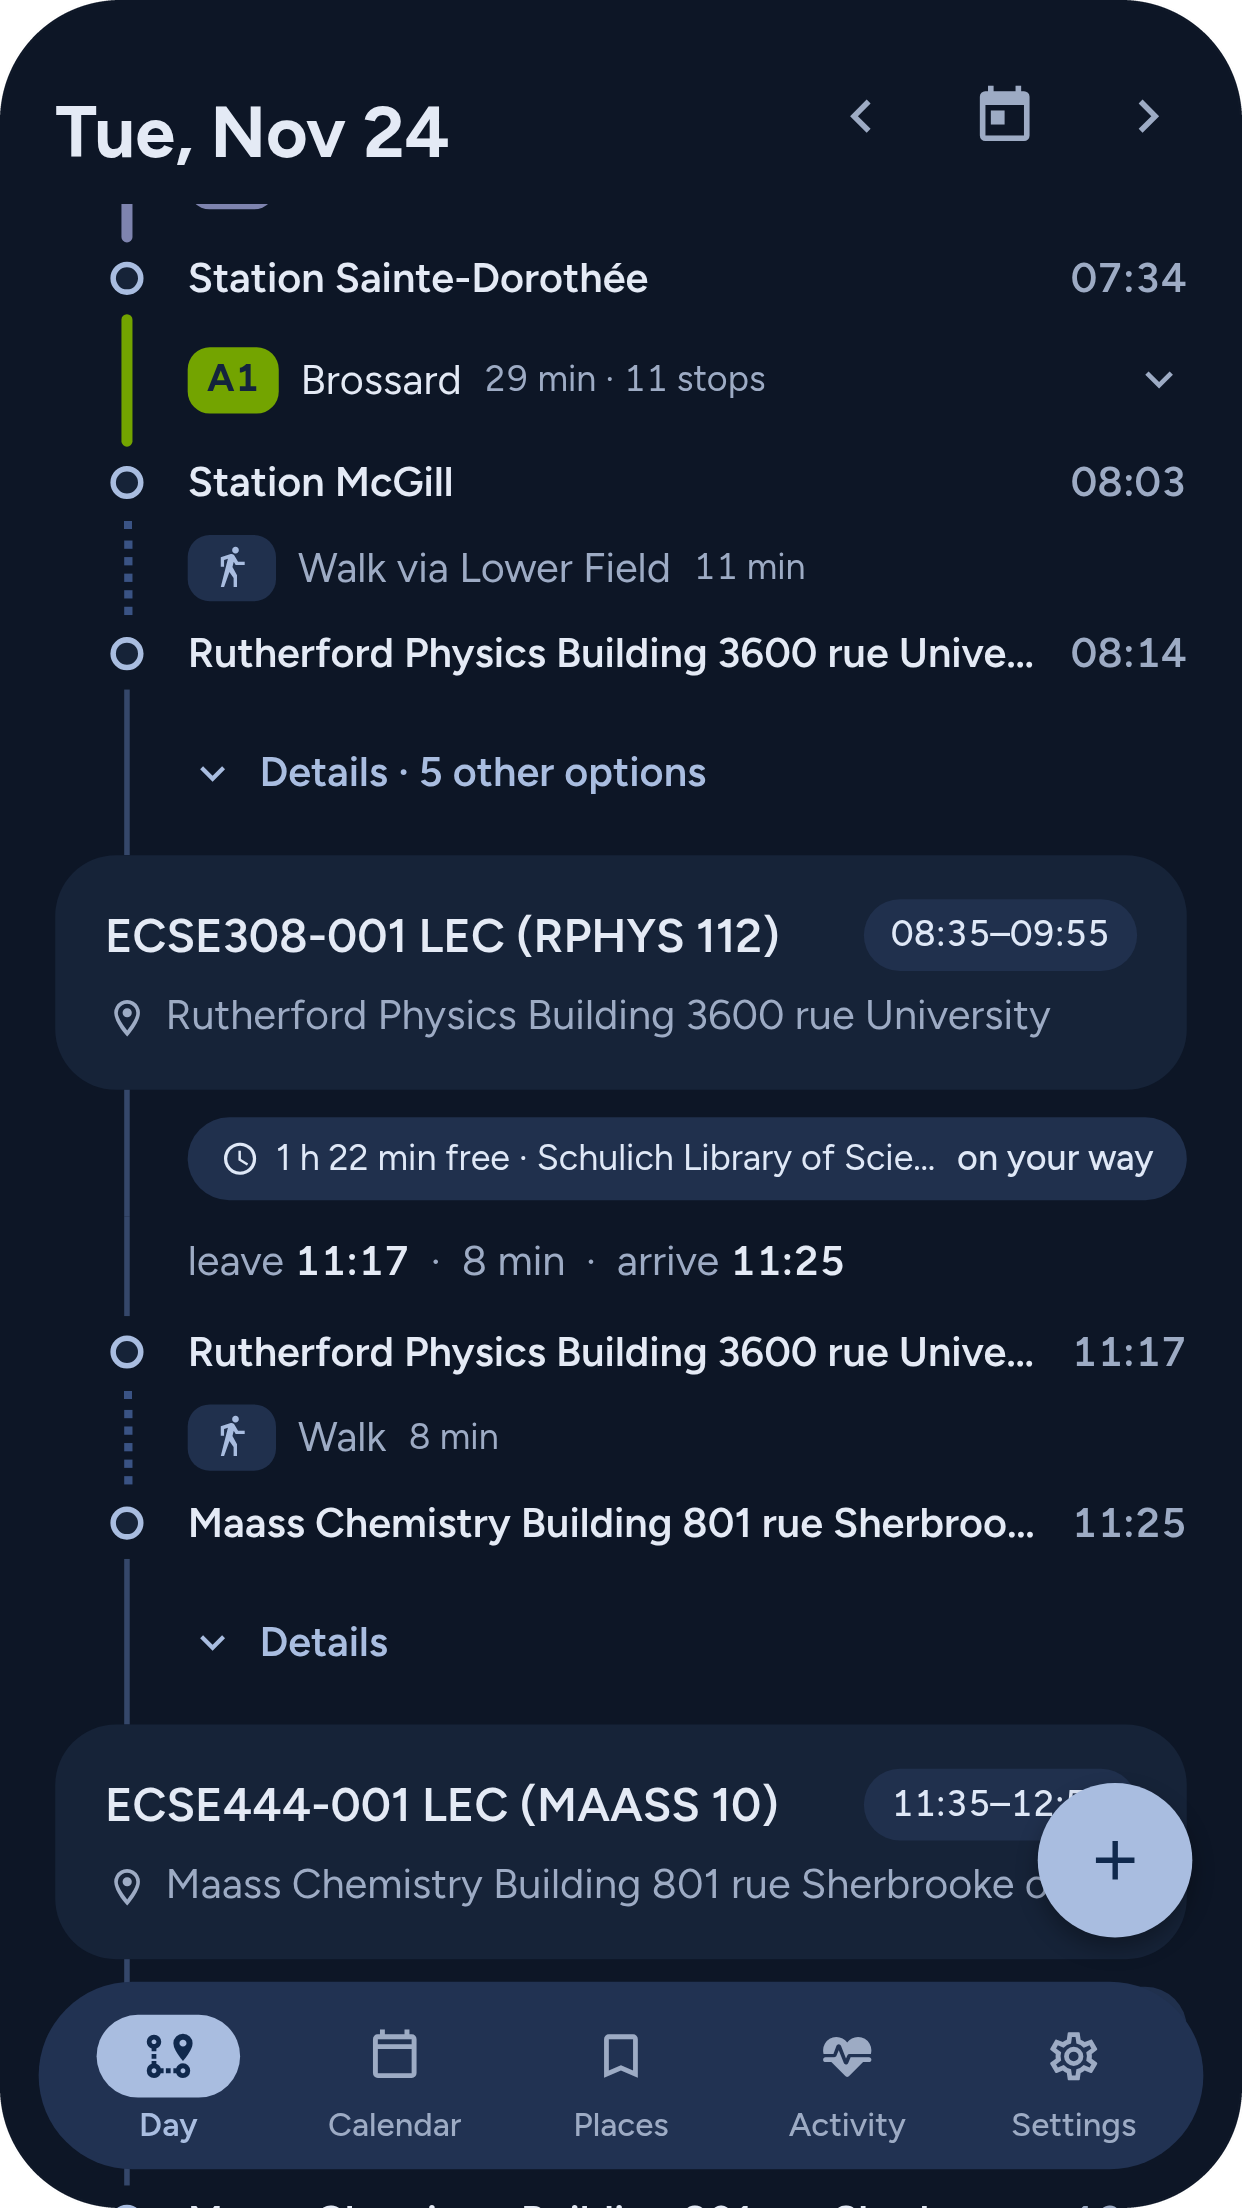
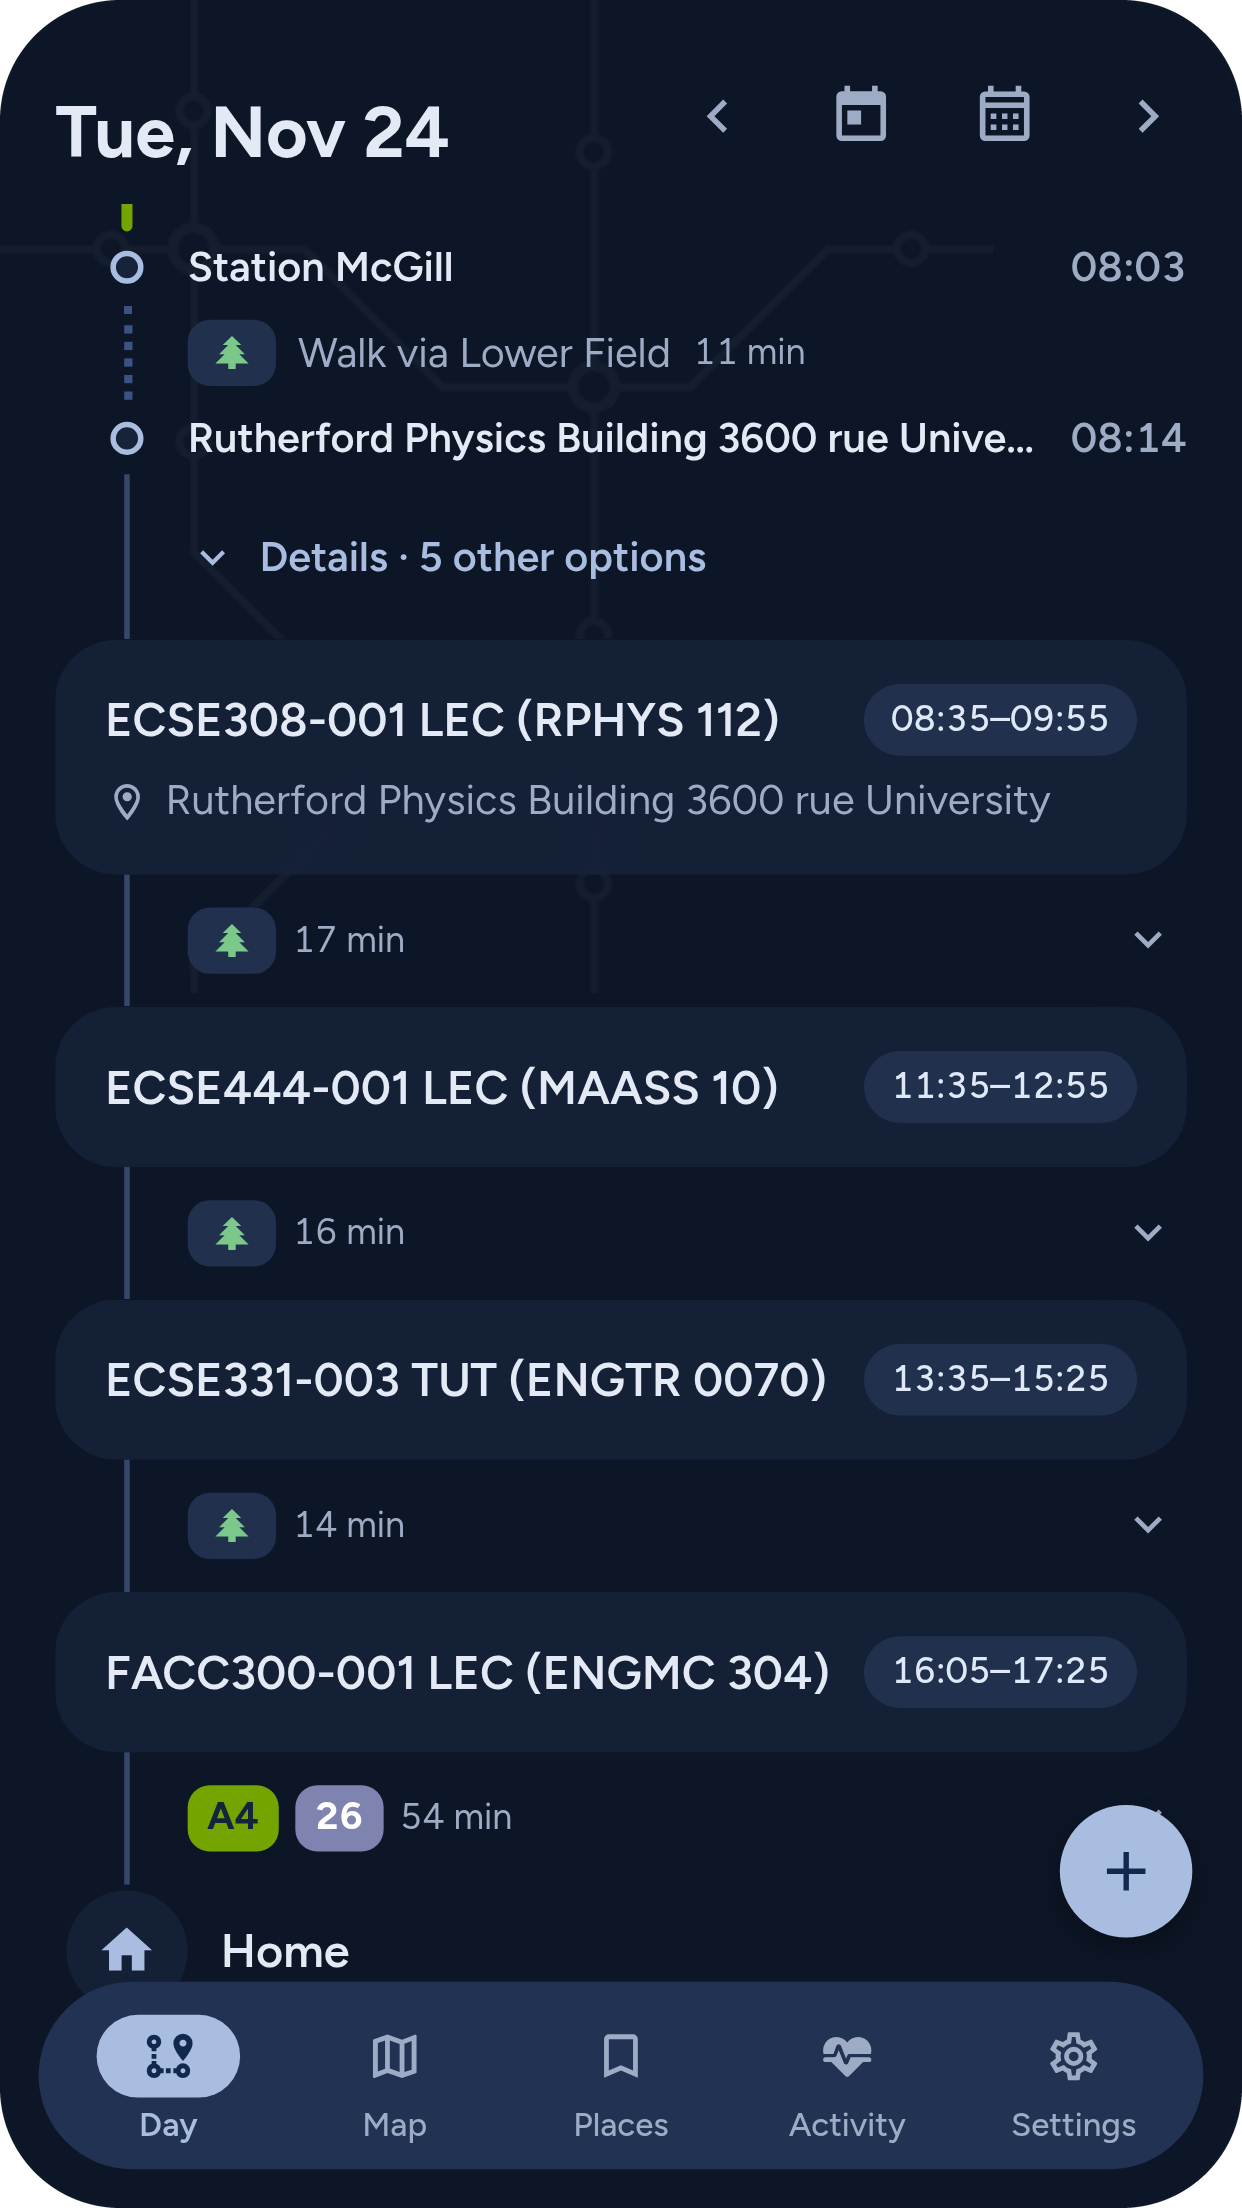
Updated branding

diff --git a/frontend/src/screens/PreferencesScreen.tsx b/frontend/src/screens/PreferencesScreen.tsx
@@ -191,7 +191,7 @@ export const PreferencesScreen: React.FC = () => {
           <Row title="Step-free routes only" hint="Strongly favours stations with elevators and accessible vehicles.">
             <Switch value={preferences.require_elevator} onValueChange={(v) => save({ require_elevator: v })} />
           </Row>
-          <Row title="Prefer green routes" hint="Favours walks through parks on every trip. The switch on the Day tab changes one trip at a time.">
+          <Row title="Prefer green routes" hint="Favours walks through parks on every trip. To change one trip, hold its event on the Day tab.">
             <Switch value={preferences.prefer_nature_routes} onValueChange={(v) => save({ prefer_nature_routes: v })} />
           </Row>
           <Row title="Suggest places for free time" hint="Cafés, libraries and parks that fit before you need to leave.">

diff --git a/frontend/src/screens/HealthScreen.tsx b/frontend/src/screens/HealthScreen.tsx
@@ -100,7 +100,7 @@ export const HealthScreen: React.FC = () => {
               {streak > 0 ? `${streak} day${streak === 1 ? '' : 's'} in a row with a green walk` : 'No green-walk streak yet'}
             </Text>
             <Text variant="bodyMedium" style={{ color: tokens.muted }}>
-              {streak > 0 ? 'Counted from the routes planned for each day.' : 'Turn on green routes on the Day tab to start one.'}
+              {streak > 0 ? 'Counted from the routes planned for each day.' : 'Hold an event on the Day tab and choose Optimize for Nature to start one.'}
             </Text>
           </View>
         </View>

diff --git a/scripts/make_banner.py b/scripts/make_banner.py
@@ -29,10 +29,10 @@ DESCRIPTION = [
 # Screens in each column, top to bottom; columns run left to right.
 COLUMNS = [
     # the day's schedule leads: these two columns are the ones nearest the text
-    ["dark/05-calendar-week", "light/10-green-routes", "dark/02-day-route"],
-    ["light/03-route-details", "dark/01-day", "light/02-day-route", "dark/04-calendar-month"],
-    ["light/07-activity", "dark/03-route-details", "light/04-calendar-month", "dark/09-settings-learned"],
-    ["light/08-settings", "dark/07-activity", "light/05-calendar-week", "dark/08-settings"],
+    ["dark/08-activity", "light/01-day", "dark/02-day-route"],
+    ["light/06-map", "dark/01-day", "light/03-options", "dark/06-map"],
+    ["light/08-activity", "dark/04-finished-early", "light/02-day-route", "dark/09-settings"],
+    ["light/09-settings", "dark/03-options", "light/05-restaurants", "dark/07-places"],
 ]
 TILE_W, GAP, ANGLE = 400, 44, 18
 STAGGER = [0, -330, -120, -450]  # vertical offset of each column

diff --git a/README.md b/README.md
@@ -34,27 +34,43 @@
 
 Routes are planned from the calendar, not from a search box: the app already knows where you have to be and when.
 
+**Your day**
+
 - **Routes between events.** Each day starts and ends at home (or a place you choose for that day). Every trip is planned to arrive before the event, so its departure time is your time to leave.
+- **The trip that matters now.** The Day tab opens on the trip under way or next to leave, already unfolded and scrolled into view. The rest of the day is folded to one line per trip, and a dot marks where you are.
+- **The day at a glance.** Time travelled, CO₂ saved against driving, and steps walked, at the top of the day.
 - **Time-to-leave reminders.** Local notifications 10 minutes before and at the moment to leave (phone only).
-- **Ranked for you.** Routes are ordered by your settings (preferred and avoided modes, longest walk, step-free only) and by what you actually pick: choosing an alternative teaches a small ranking agent.
-- **The trip that matters now.** The Day tab opens on the trip under way or next to leave, marked with a pointer; the rest of the day is folded to one line per trip.
-- **Map.** The open trip drawn section by section (walk, bus, metro, REM, train) with your live position and the steps listed underneath.
-- **Green routes.** A switch, per trip or for every trip, favours walks through parks, marks them with a pine tree, and on short trips in dry weather offers a walk routed through a park.
-- **Hold for options.** Hold an event to optimise the trip from it for nature, steps or CO₂ saved, or to say you finished early and pick a café, restaurant or park to go to; the stop is fitted in before your next event.
-- **Free-time suggestions.** When there is slack before you need to leave, the app suggests a café, library or park that fits.
-- **Impact at a glance.** Time travelling, steps on foot, and CO₂ saved against driving, with a plain comparison such as "≈ 49 km by car".
 - **Your events.** Add and edit events on the Day tab, jump to any date, import an `.ics` calendar file from Settings, and optionally sync Google Calendar.
+
+**Hold an event for options**
+
+Hold an event (or the home marker) and it lifts out of a blurred screen with what you can do from there:
+
+- **Optimize for Nature.** The trip leaving it switches to its greenest way, with walks through parks marked by a pine tree. Before it applies, the app shows what changes: the steps and minutes it adds, the new lines, the parks it crosses.
+- **Optimize for Steps** or **for CO₂ Saved.** That trip takes the option with the most walking, or the lowest emissions, among those that fit your schedule.
+- **Finished Early.** Pick a café, a restaurant or a park nearby, narrowed down with a few words (study, coffee, terrace, pizza, vegetarian, large park…), or search for any place. Your most-picked places come first. The stop is fitted in before your next event, with the trips there and onwards planned around it.
+
+**Getting there**
+
+- **Map.** The open trip drawn section by section (walk, bus, metro, REM, train) with your live position; tap a stretch to zoom to it.
+- **Ranked for you.** Routes are ordered by your settings (preferred and avoided modes, longest walk, step-free only) and by what you actually pick: choosing an alternative teaches a small ranking agent.
+- **Free-time suggestions.** When there is slack before you need to leave, the app suggests a café, library or park that fits.
+
+**And**
+
 - **Saved places.** Keep the places you go to often and pick them as an event's location or a day's start or end.
-- **Step counting.** From the phone's own pedometer, with a seven-day chart and a green-walk streak.
+- **Activity.** Steps from the phone's own pedometer, a seven-day chart, a green-walk streak, and the week's CO₂ saved with a plain comparison such as "the exhaust of 311 km driven by car".
 - **Light and dark themes.**
 
 <p align="center">
-  <img src="mockups/light/10-green-routes.png" alt="Day tab with green routes on: the day's totals, then the route from home to the first event, with the walk through a park marked by a pine tree" width="280">
-  &nbsp;&nbsp;&nbsp;
-  <img src="mockups/light/07-activity.png" alt="Activity tab: today's steps and the last seven days" width="280">
+  <img src="mockups/light/01-day.png" alt="Day tab: the day's three figures, then the trip from home to the first event unfolded, with a walk through a park marked by a pine tree" width="250">
+  &nbsp;&nbsp;
+  <img src="mockups/light/03-options.png" alt="Holding an event: it stays sharp over a blurred screen, with Optimize for Nature, Finished Early, Optimize for Steps and Optimize for CO₂ Saved listed under it" width="250">
+  &nbsp;&nbsp;
+  <img src="mockups/light/06-map.png" alt="Map tab: the trip drawn in sections with line numbers, a pin at the destination and a strip of its stretches underneath" width="250">
 </p>
 
-<p align="center"><sub>Day, with green routes on &nbsp;·&nbsp; Activity</sub></p>
+<p align="center"><sub>The day &nbsp;·&nbsp; Hold an event for options &nbsp;·&nbsp; The trip on the map</sub></p>
 
 ## How it works
 
@@ -156,7 +172,7 @@ docker compose up --build   # backend on :8080 and agent on :8000
 | `make test` | Go tests, ML agent tests and the frontend typecheck |
 | `make logs` | Follow the backend and ML agent logs |
 | `make stop` | Stop background servers left over from `make dev` |
-| `make data` | Refresh bundled data: parks, third places, step-free stations |
+| `make data` | Refresh bundled data: parks, places to stop at (cafés, restaurants, libraries), step-free stations |
 | `make reset-data` | Delete saved events, places, settings and planned routes |
 
 ## Configuration
@@ -190,7 +206,7 @@ All settings are optional environment variables.
 │       ├── store/               # app state
 │       └── theme/               # colours and type
 ├── ml-agent/                    # route-ranking agent (FastAPI, :8000)
-├── scripts/                     # routing engine setup and bundled-data refresh
+├── scripts/                     # routing engine setup, bundled-data refresh, icon, pattern and banner generators
 ├── docs/                        # architecture, API, UI concept
 ├── mockups/                     # screenshots, light and dark
 └── Makefile
@@ -205,6 +221,8 @@ Tandem is a hackathon prototype for a single user.
 - **Step counts** are exact on iOS; Android counts only while the app is open; a browser has no step sensor.
 - **Time-to-leave notifications** are not available in a browser.
 - **CO₂ figures** are estimates from per-mode averages, and the comparisons (car distance, gasoline, trees) are rough.
+- **Places to stop at** come from OpenStreetMap, which has no prices: restaurants can be narrowed down by cuisine and service, not by cost. Walking times to them are straight-line estimates.
+- **Blur effects** (frosted cards, the blurred screen behind options) need a browser; on a phone those surfaces are translucent or nearly opaque instead.
 - **Step-free access** comes from a static station list, not live elevator outages.
 - **Live delays** appear only with the public Transitous server and are cached for 15 minutes.
 
